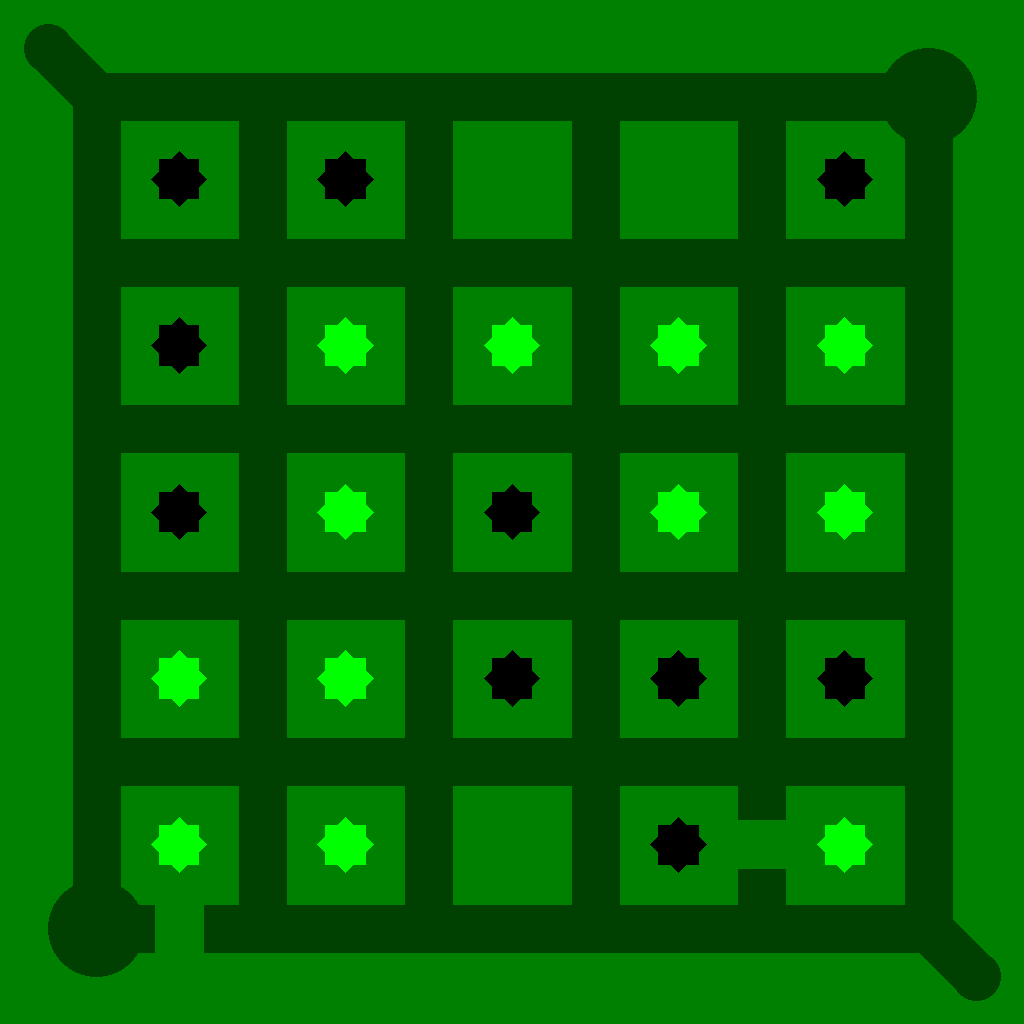
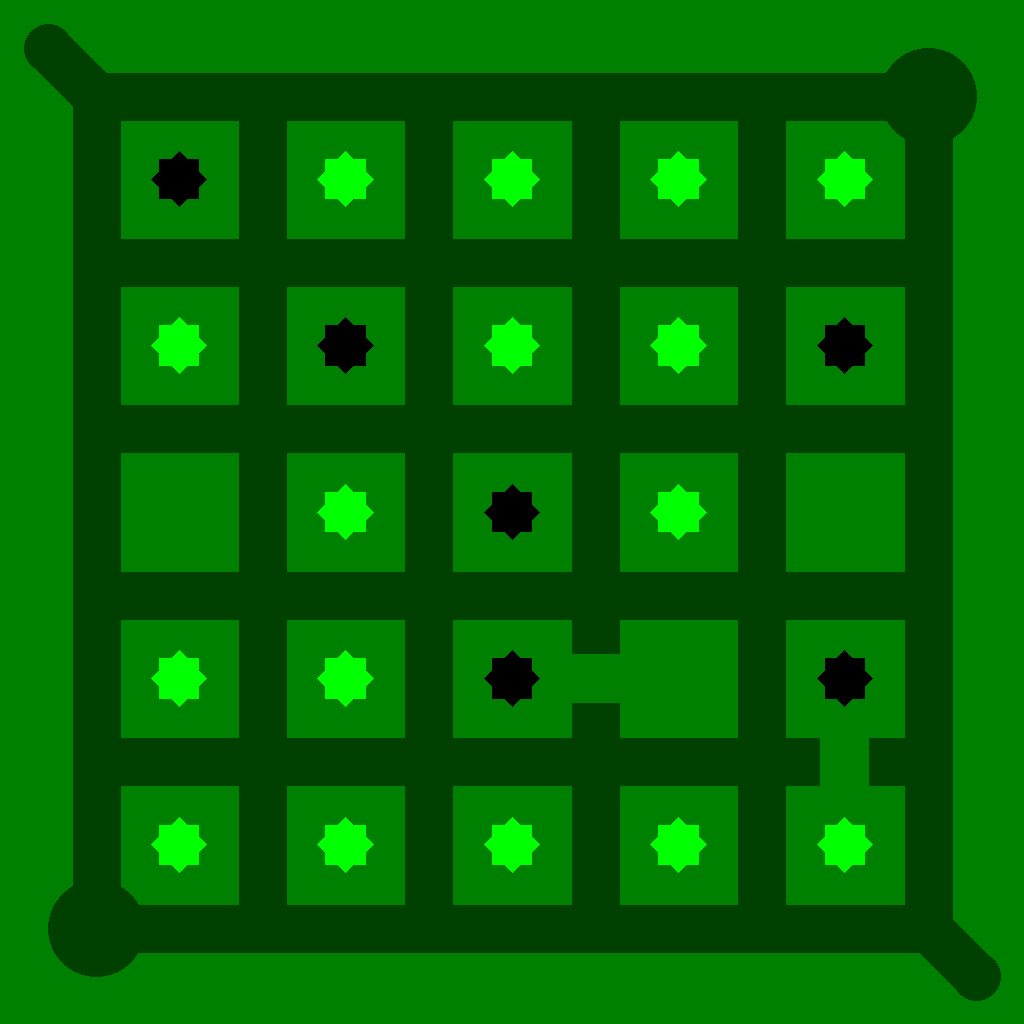
Add cuts to randTriangles

diff --git a/python/main.py b/python/main.py
@@ -155,12 +155,12 @@ def bgsolvertest():
     Render.render(RENDER_OUTPUT + FILE_FORMAT, grid)
 
 def randrottest():
-    N = 9
-    randgrid = RandGrid(N, N, GridT = Grid)
+    N = 11
+    randgrid = RandGrid(N, N, GridT = RotationalGrid)
     randgrid.pathfind()
     print(len(randgrid.storedpaths))
 
-    grid = randgrid.randBlocksByRegion(numRegions = 1)
+    grid = randgrid.randDots()
 
     solver = Solver.Solver()
     solver.grid = grid
@@ -200,4 +200,4 @@ def rgb():
 
 
 if __name__ == "__main__":
-    rgb()
+    randrottest()

diff --git a/python/RandGrid.py b/python/RandGrid.py
@@ -337,6 +337,9 @@ class RandGrid:
         grid = self.blankGrid()
         self.applyChosenPath(grid)
 
+        for i in cutlocs:
+            grid.setPath(i, False)
+
         for i in symbols:
             pp = grid.neighbors(i)
             cc = 0
